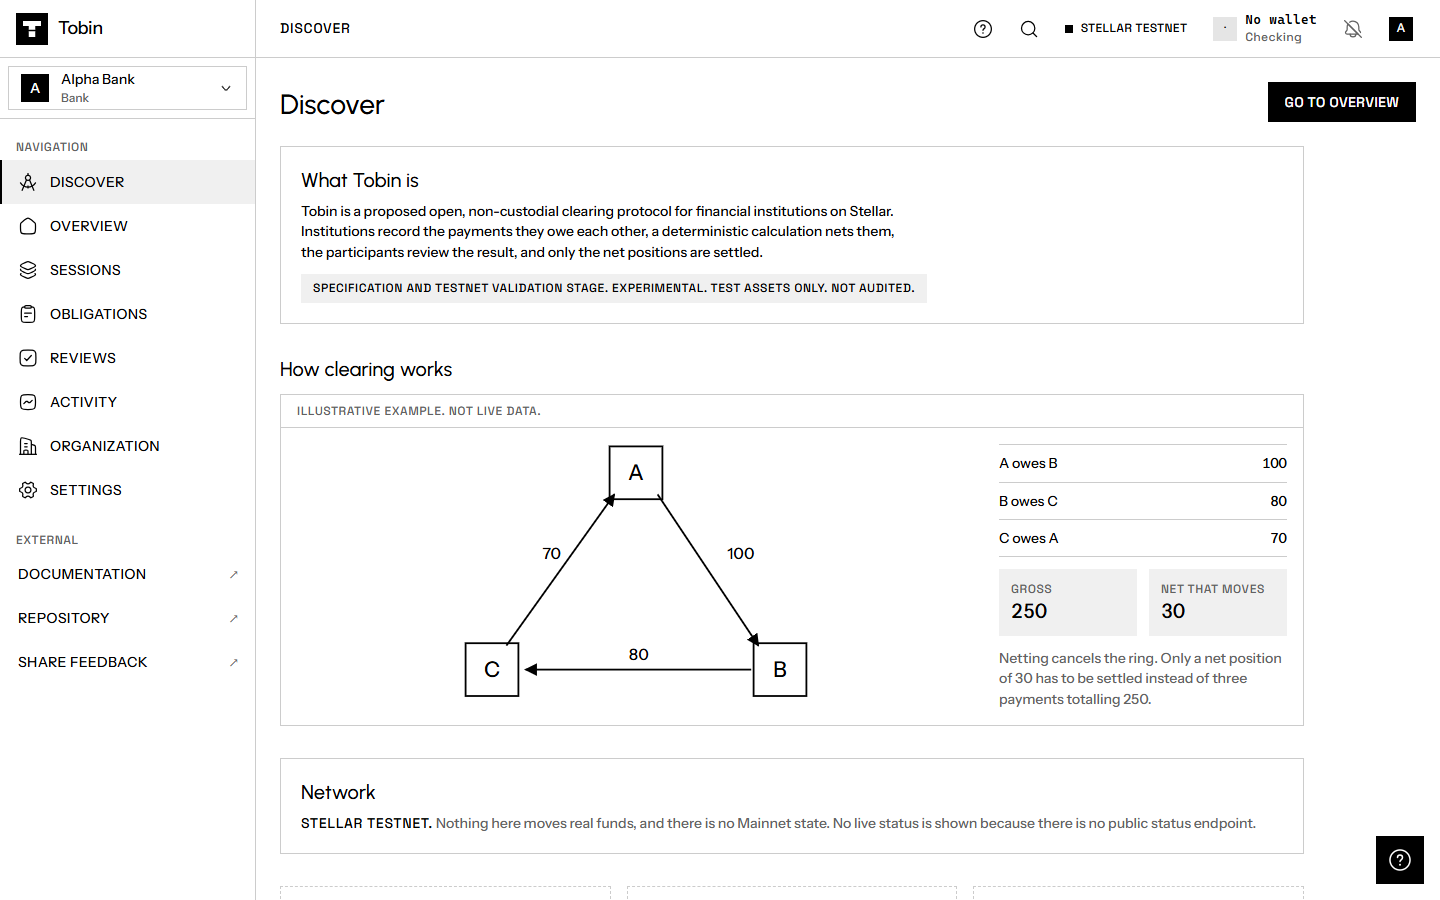
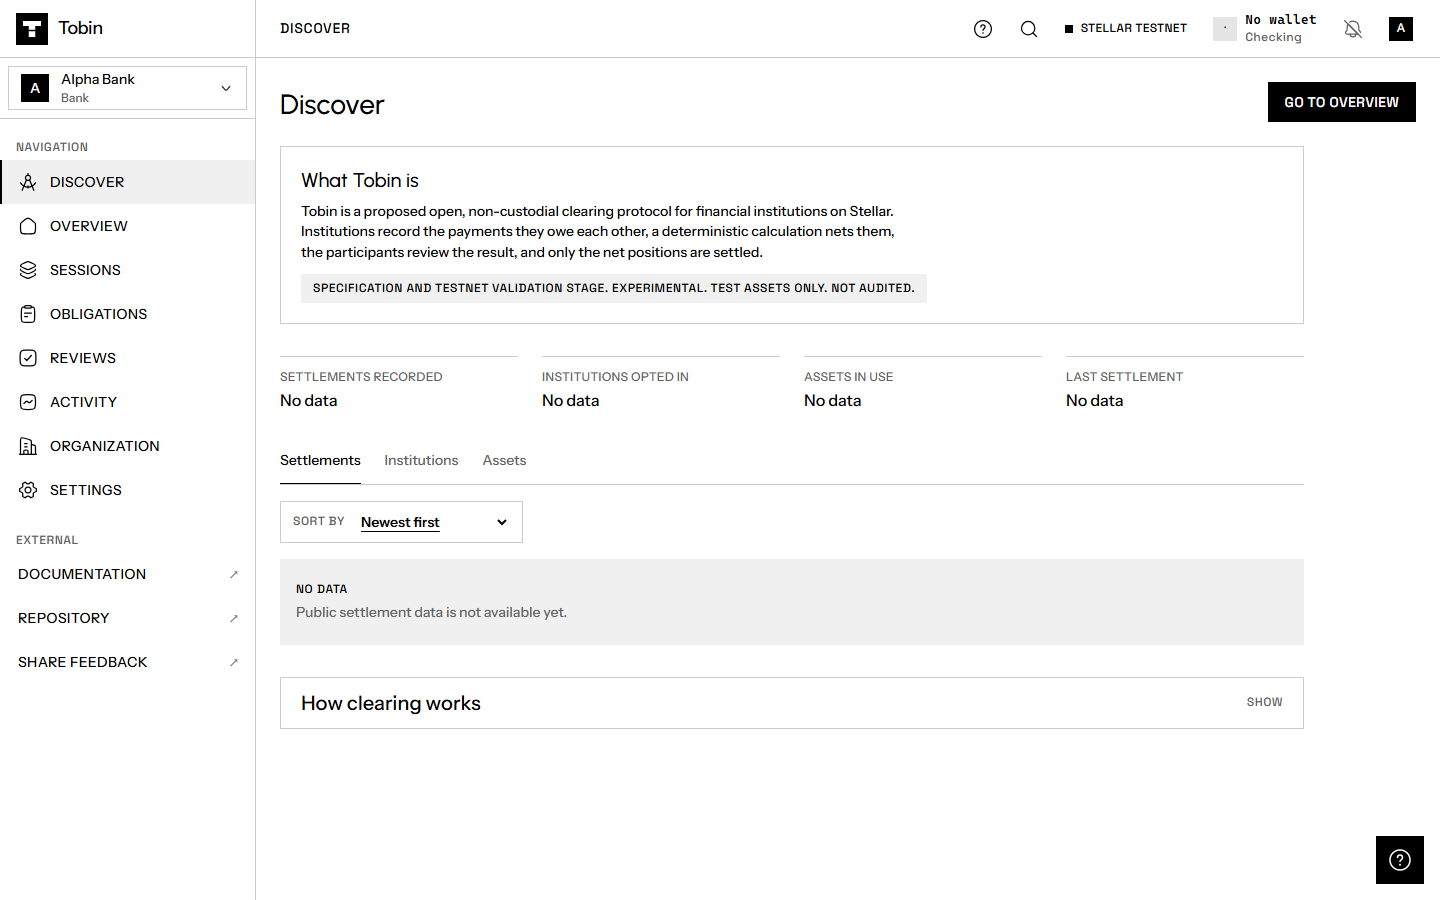
docs(web): Discover contract, plan section 13, R1 screenshots

diff --git a/docs/web-redesign/discover-contract.md b/docs/web-redesign/discover-contract.md
@@ -1,0 +1,84 @@
+# Discover: public data contract
+
+Status: a proposal for a backend that does not exist. Today the console has no public read endpoint (every `/api/registry` route answers 401 without a session, `apps/web-console/lib/registry/http.ts`) and the web app's proxy forwards only `/api/auth` and `/api/registry` (`apps/web/lib/proxy-policy.ts`). Discover therefore reads a typed client (`apps/web/lib/discover/types.ts`) whose only implementation, `unavailableClient`, makes no request and reports "unavailable"; every figure reads "No data" and every list shows one tile saying "Public settlement data is not available yet." Nothing in this document is built, and none of it is sample data.
+
+## Principles
+
+1. **Public by opt-in.** A record is public only if every institution it names opted in. Parties are omitted otherwise, not masked.
+2. **No fake zeros.** A value the backend does not publish is `null` or absent. The screen shows "No data", never `0`.
+3. **Verified means read back.** `verifiedReadBack` is true only after the transaction was independently read from Stellar. The Discover tile shows its verified mark from that flag and nothing else (`lib/stages.ts`, the Confirmed rule).
+4. **Amounts are strings** in the asset's own unit and are never summed across assets.
+5. **Read-only, cacheable, no authentication,** with its own origin separate from the console's loopback guards. The console's guards are not relaxed for it.
+6. **Testnet is labelled.** Every record carries its network, and the tile prints it next to the explorer link.
+
+## Endpoints
+
+All `GET`, JSON, cursor-paginated. Path prefix is a placeholder (`/public/v1`).
+
+| Endpoint | Returns |
+|---|---|
+| `/public/v1/stats` | `ProtocolStats` |
+| `/public/v1/settlements?sort=&cursor=&limit=` | `Page<PublicSettlement>` |
+| `/public/v1/institutions?sort=&cursor=&limit=` | `Page<PublicInstitution>` |
+| `/public/v1/assets?sort=&cursor=&limit=` | `Page<PublicAssetUse>` |
+
+Sort values: settlements `newest` (default), `oldest`, `amount-high`, `amount-low`; institutions `name` (default), `newest`, `most-settlements`; assets `code` (default), `most-settlements`, `latest`. An unknown value falls back to the default; the web app also falls back, so a hand-edited URL never breaks the page. `limit` defaults to 20, maximum 100. `nextCursor` is opaque.
+
+## Types
+
+```ts
+type PublicNetwork = "testnet" | "public";
+
+interface ProtocolStats {            // aggregates; any field may be null
+  settlementsRecorded: number | null;
+  institutionsOptedIn: number | null;
+  assetsInUse: number | null;
+  lastSettlementAt: string | null;   // ISO 8601
+}
+
+interface PublicSettlement {
+  id: string;                        // Tobin's identifier for the record
+  asset: { code: string; issuer: string | null };
+  amount: string;                    // decimal string
+  settledAt: string;                 // ISO 8601
+  network: PublicNetwork;
+  txHash: string;                    // 64 hex characters
+  verifiedReadBack: boolean;
+  parties: { payer: { institutionId: string; displayName: string };
+             payee: { institutionId: string; displayName: string } } | null;   // null unless BOTH opted in
+}
+
+interface PublicInstitution {        // opted-in fields only; a field not published is absent
+  id: string;
+  displayName: string;
+  institutionType?: string;
+  jurisdiction?: string;
+  optedInAt?: string;
+  settlementCount?: number;
+}
+
+interface PublicAssetUse {
+  asset: { code: string; issuer: string | null };
+  settlementCount: number;
+  settledAmount: string;             // in the asset's own unit
+  lastSettledAt: string;
+}
+
+interface Page<T> { items: T[]; nextCursor: string | null; total: number | null }
+```
+
+## What the screen does with it
+
+- **Stats row:** four cells (settlements recorded, institutions opted in, assets in use, last settlement). `null` renders "No data".
+- **Settlement tile:** identifier; asset and amount; parties only when `parties` is present; time; the network label and a link to `https://stellar.expert/explorer/{testnet|public}/tx/{txHash}` (omitted if `txHash` is not 64 hex characters); the verified mark only when `verifiedReadBack` is true.
+- **Institution tile:** identifier, name, and one chip per published field. Nothing else.
+- **Asset tile:** code, settled amount, count, latest time.
+- **Empty or unavailable:** one tile-sized "No data" with "Public settlement data is not available yet."
+
+## Decisions a backend owner must make first
+
+1. **Opt-in model:** who can opt an institution in (an administrator), what exactly it publishes (name, type, jurisdiction, counts), whether it can withdraw, and what happens to past records when it does.
+2. **What a public settlement is:** only settlements that reached Stellar and were read back, or also prepared batches. The contract above assumes the former; Tobin records no signed or submitted settlement today (no route signs, submits or verifies), so there would be nothing to publish yet.
+3. **Indexer:** something must read Tobin's contracts and keep the records. None exists.
+4. **Privacy review** of aggregates: counts that reveal a single institution's activity in a small network.
+5. **Hosting:** a public origin and rate limits, separate from the local-only console.

diff --git a/docs/web-redesign/plan.md b/docs/web-redesign/plan.md
@@ -6,8 +6,8 @@ Inputs: `spec.md` (design), `audit/`, `verified.md`. Branch `feat/web-redesign-v
 
 | Route | Access | Enforced by | Replaces |
 |---|---|---|---|
-| `/discover` | public | none | `/discover` Not-supported page (rewritten) |
-| `/sign-in` | public | none; reads `?next=` (same-origin paths only) | `(auth)/sign-in` |
+| `/discover` | public | none | a real explorer that is empty until a public API exists (stats row, three sub-tabs, sort bar, tile lists; see section 13) |
+| `/sign-in` | public | none; reads `?next=` (same-origin paths only) | `(auth)/sign-in`: split page (art panel, email, Continue with wallet) |
 | `/onboarding` | signed in, no organization | server layout | `(auth)/onboarding` |
 | `/` | signed in | server layout | Overview |
 | `/sessions`, `/sessions/new`, `/sessions/[id]` | signed in | server layout | same |
@@ -101,3 +101,24 @@ Each phase: typecheck, lint, unit tests (existing plus new for access redirects,
 Owner answers: the landing page's four fonts; greyscale like the landing page (no green; the primary action is black); Launch app defaults to `http://127.0.0.1:3000` in development and is disabled in a production build until a domain is given; branch `feat/web-redesign-v2` from `main`; `@hugeicons/core-free-icons` is in scope.
 
 **R1 status.** Built on `feat/web-redesign-v2`, not pushed. Deviations from this plan: (1) the `/dev/components` gallery is gated by `TOBIN_DEV_GALLERY=1` rather than development-only, because the smoke tests run against a production build; (2) the shadcn `shadcn` package is a dev dependency (it supplies `shadcn/tailwind.css`) and the generated components live in `components/kit/` because `components/ui/Button.tsx` and the CLI's `button.tsx` collide on a case-insensitive file system; (3) the sidebar's Reviews item still opens `/approvals` until R4; (4) the card tone is the 4% ink value flattened to #f5f5f5 so nested cards keep their contrast; (5) the shadcn `cn` helper package was replaced by `clsx` plus `tailwind-merge`, as the dependency rule lists. The old `Popover` and `CommandPanel` in `components/ui/Overlays.tsx` are no longer used by the shell and are deleted once the component gallery stops showing them (R5).
+
+## 13. Changes after the R1 review (2026-11-09)
+
+Owner decision: the greyscale palette stays. Wherever the spec or earlier messages say green or accent (a selected filter value, the active state, tags), use black text with an underline or weight, a #f5f5f5 fill, or the black 2px edge.
+
+**Discover replaces the "three Not supported cards" design.** It is a real explorer, built like Symbiotic's Discover, that is empty until a public API exists:
+
+- A what-Tobin-is panel with the maturity line.
+- A protocol stats row: settlements recorded, institutions opted in, assets in use, last settlement. All "No data".
+- Sub-tabs SETTLEMENTS, INSTITUTIONS, ASSETS (URL-driven, `?tab=`), a URL-driven sort bar (`?sort=`, selected value in bold with an underline), and tile lists.
+- Settlement tile: identifier, asset and amount, parties only if both institutions opted in, time, a link to the transaction on Stellar Expert with the network label, and the verified mark only when the record carries a verified read-back (through `verifiedMark` in `lib/stages.ts`, the only file allowed to name that stage). Institution tile: opted-in fields only.
+- Each tab shows one tile-sized "No data" with "Public settlement data is not available yet." No sample rows, no backend endpoint, no request at all.
+- A typed `DiscoverClient` (`lib/discover/types.ts`) whose only implementation, `unavailableClient`, reports "unavailable". `docs/web-redesign/discover-contract.md` is the public data contract a backend would need.
+- A collapsed "How clearing works" card labelled "Illustrative example. Not live data." It is the only place the 250 and 30 appear.
+
+**Two entry points when signed out** (top bar and sidebar footer): SIGN UP / LOG IN (primary, goes to `/sign-in`) and CONNECT WALLET (secondary, opens the connect dialog).
+
+- Connect dialog: shadcn Dialog; wallets from a registry in code (`lib/wallet/registry.ts`; today only Freighter through the pinned library), installed ones first, labelled INSTALLED, NOT INSTALLED and LAST USED, an install link for a wallet that is not installed, a desktop-extension note, a search field only above six wallets, then the existing connect and signature flow (Connect wallet, then Verify ownership) with named failure states inline.
+- `/sign-in`: split layout, an original illustration on the left (hidden under 900px), logo top-left, a close icon back to Discover, "Sign up or sign in", an Email address field, a Continue button disabled until the address is valid, an "Or" divider, Continue with wallet (opens the same dialog) and small testnet and help text. The backend supports an email and a password, not an email alone, so Continue leads to a second step (log in, or create an account with a name and password).
+
+**Dependencies.** The `shadcn` package is not a dependency: its small stylesheet is vendored as `apps/web/app/shadcn.css` and the generator is run with `npx shadcn@latest` (apps/web/README.md).

diff --git a/docs/web-redesign/spec.md b/docs/web-redesign/spec.md
@@ -53,6 +53,8 @@ Signed out: logo, a single active item DISCOVER, then the other items shown **lo
 
 Signed in: logo, organization selector, then NAVIGATION: Discover, Overview, Sessions, Obligations, Reviews (pending count on this item only), Activity, Organization, Settings. Then EXTERNAL: Documentation, Repository, Share feedback. Discover stays reachable at all times, which fixes the audit's finding that it was reachable only by typed URL.
 
+> **Superseded (2026-11-09, owner decision):** the Discover design below (three Not supported cards) is replaced by an empty explorer with a stats row, sub-tabs, a sort bar and tile lists; see plan.md section 13 and discover-contract.md. The signed-out entry points and the sign-in page also changed there; green and accent colours in this document are replaced by the greyscale rules in the same section.
+
 **Discover page (public), honest content only**
 
 1. A short panel: what Tobin is, in one paragraph, with the maturity line "Specification and testnet validation stage. Experimental. Test assets only. Not audited."

diff --git a/docs/web-redesign/README.md b/docs/web-redesign/README.md
@@ -17,5 +17,6 @@ The implemented app is the high-fidelity result. Wireframes, flow diagrams and a
 | [spec.md](spec.md) | The design specification for the rewrite (access model, light design system, screens) |
 | [plan.md](plan.md) | Route map, modules, what is kept and deleted, phases R1 to R5, risks |
 | [verified.md](verified.md) | The audit's claims checked against the source, and where the audit or spec was wrong |
+| [discover-contract.md](discover-contract.md) | The public data contract a backend would need for Discover |
 | [contrast.md](contrast.md) | Computed contrast of every text and background pair (generated) |
 | [audit/](audit/) | The read-only audit of the app before the rewrite |
